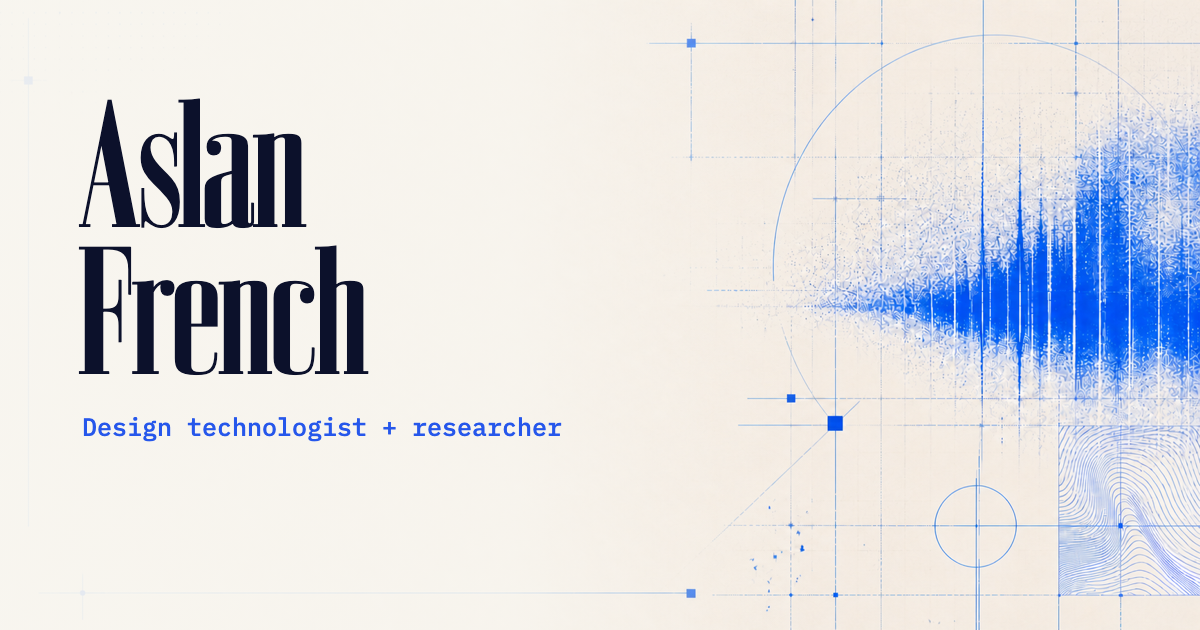
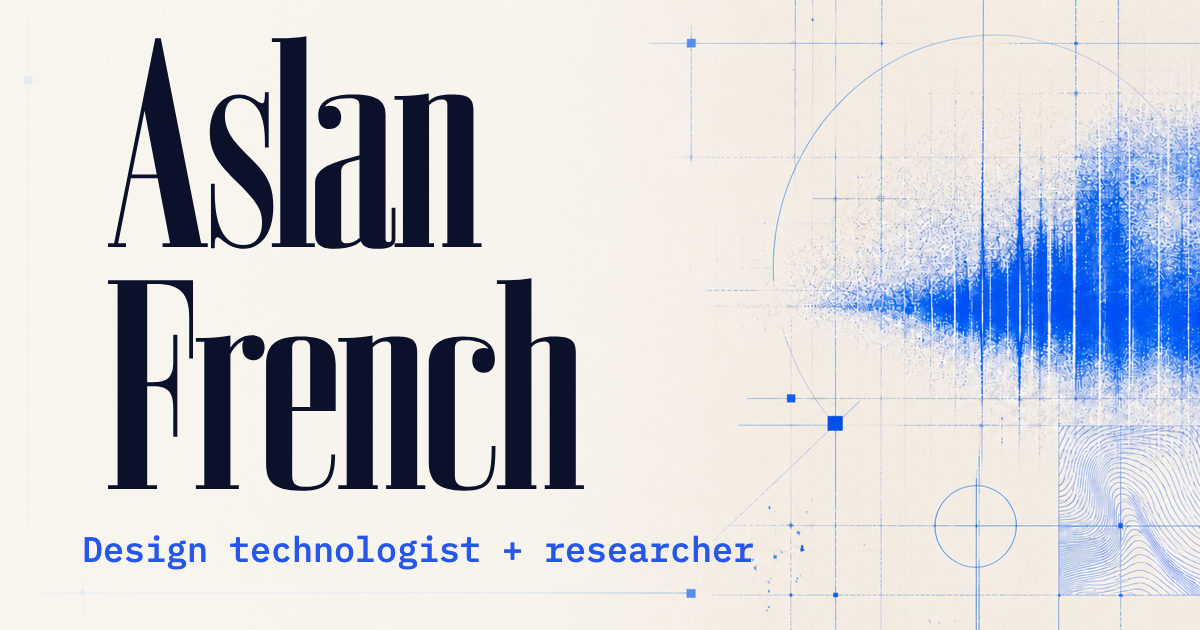
seo: enlarge social card typography
Spike: production-deploy

Changed region(s): [[0.0617, 0.0603, 0.4933, 0.7841], [0.0617, 0.8444, 0.4008, 0.9048], [0.4625, 0.8444, 0.6475, 0.9048]]

diff --git a/apps/frontend/pages/dev/social-page.vue b/apps/frontend/pages/dev/social-page.vue
@@ -46,6 +46,10 @@
   }
 
   .card {
+    --title-offset-x: 28px;
+    --title-offset-y: -70px;
+    --title-size: 290px;
+    --descriptor-size: 35px;
     position: relative;
     box-sizing: border-box;
     width: 1200px;
@@ -90,9 +94,9 @@
     display: flex;
     flex-direction: column;
     align-items: flex-start;
-    margin: 0;
+    margin: var(--title-offset-y) 0 0 var(--title-offset-x);
     font-family: var(--font-bodoni);
-    font-size: 176px;
+    font-size: var(--title-size);
     font-style: normal;
     font-weight: 400;
     font-synthesis: none;
@@ -109,7 +113,7 @@
     margin: 34px 0 0 4px;
     color: var(--color-primary);
     font-family: var(--font-mono);
-    font-size: 25px;
+    font-size: var(--descriptor-size);
     font-style: normal;
     font-weight: 500;
     letter-spacing: 0;
